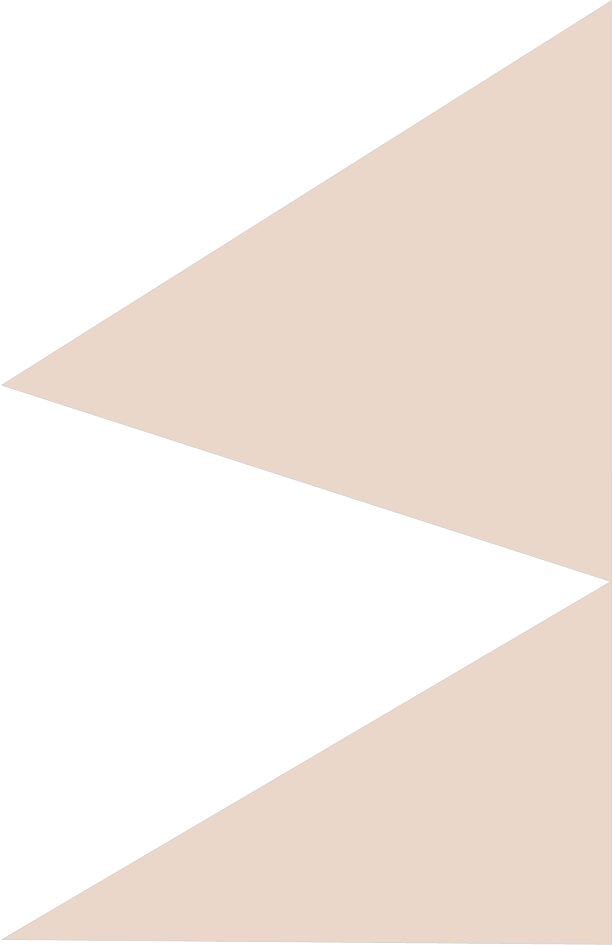
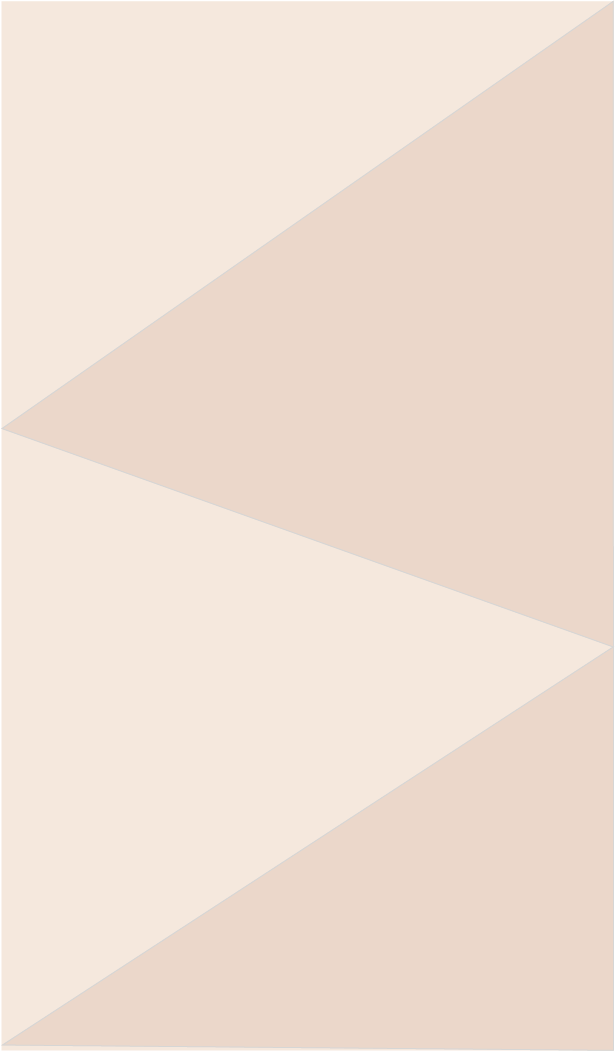
Applied pattern background, changed margins top and/or bottom so that the visual section's pictures and paragraphs are closer together.

diff --git a/css/main.css b/css/main.css
@@ -929,24 +929,30 @@ hr {
   width: 39%;
 }
 
+/*
 hr {
   padding-top: 7rem;
-}
+}*/
 
 #pattern {
   background-image: url(../css/img/pattern.png);
   background-repeat: no-repeat;
   background-size: cover;
-  min-height: 125px;
-  margin-right: 2.6rem;
+  height: 2457px;
+  margin-right: -0.4rem;
 }
 
 .visual {
   display: flex;
 }
 
+.visual_2 {
+  margin-top: -104rem; /*-93rem;*/ /*1750px*/
+}
+
 #massages img {
   height: 20.6rem;
+  margin-bottom: -5rem;
   margin-left: 8.1rem;
   padding-top: 9rem;
   width: 34%;
@@ -961,7 +967,7 @@ hr {
   font-family: 'papyrus';
   font-size: 1.8rem;
   padding-left: 25rem;
-  margin-top: -1.2rem;
+  margin-top: 5rem;
   text-align: justify;
   width: 39%;
 }
@@ -993,6 +999,7 @@ footer /*.content-font*/{
   display: flex;
   flex-direction: row;
   flex-wrap: wrap;
+  margin-top: 20rem;
  }
   
  footer h3 {
@@ -1050,35 +1057,6 @@ footer /*.content-font*/{
   word-wrap: break-word;
   width: 98%;
 }
-
-/*
-footer .information address {
-  flex-basis: 73%;
-}
-*/
-
-/*#social p {
-  margin-right: 1.3rem;
-}
-
-.footer p{
-  font-size: 1.1em;
-  overflow-wrap: break-word;
-  width: 95%;
- }*/
-      
-
-
-
-
-
-
-
-
-
-
-
-
 
 
     /* =========================================================================FOOTER FOR ALL PAGES REGARDING DESKTOP
